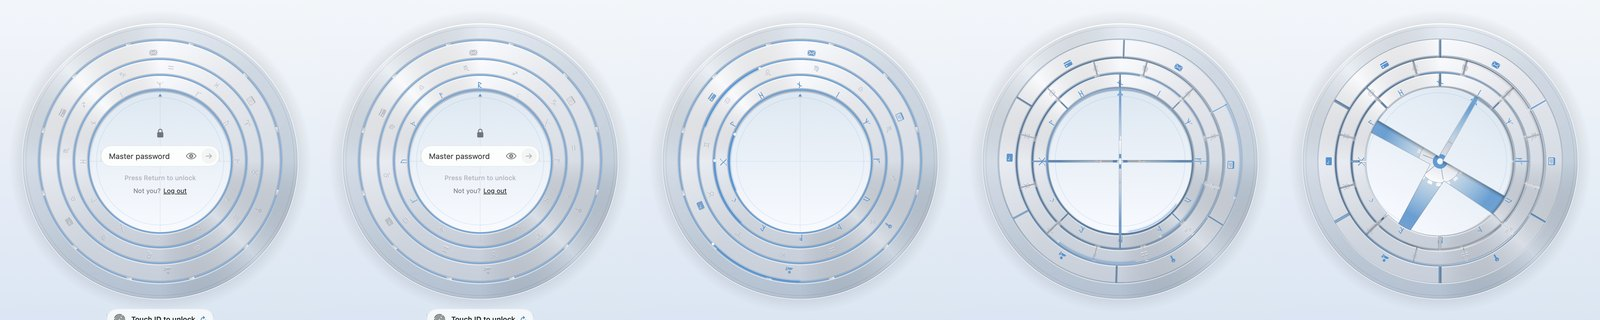
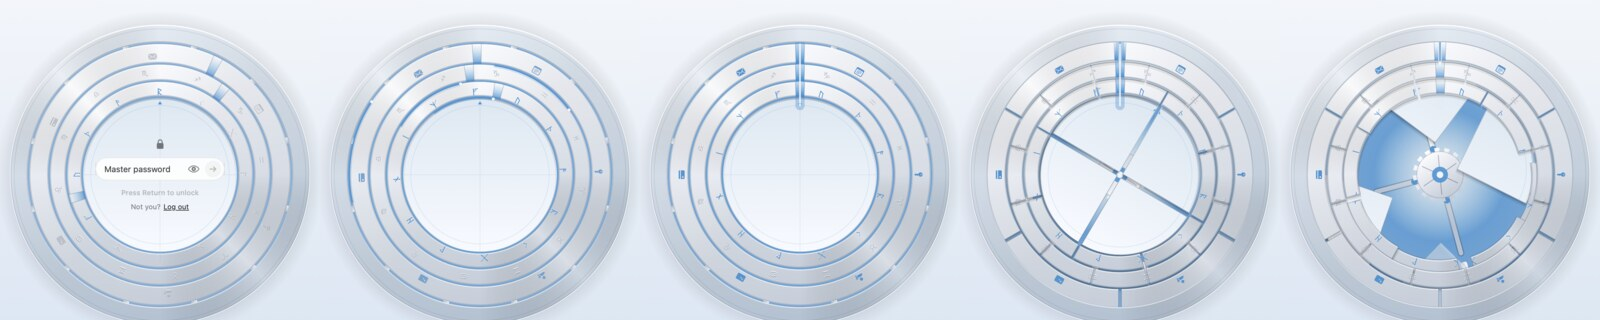
feat: the unlock lines up the three rings before the door opens
Each ring (heaven, person, earth) now has a notch. On unlock they turn,
outside in, the shorter way round until the notches meet at the top; light
runs down the keyway (歸元), and only then do the bolts draw and the door come
apart. The sequence plays in ~0.93 s, so the gate now waits 940 ms.

Changed region(s): [[0.0, 0.125, 1.0, 1.0]]

diff --git a/App/Sources/VaultDoorStage.swift b/App/Sources/VaultDoorStage.swift
@@ -107,6 +107,8 @@ private struct Mechanism {
     var twist = 0.0
     /// The geared core under the hub plates: 1 in place … 0 retracted into the light.
     var core = 1.0
+    /// 歸元: the three notches in line at the top, light running down the keyway, 0…1.
+    var keyway = 0.0
     /// An arc of energy running along the seams: its angle (degrees) and strength.
     var sweep = 0.0
     var sweepStrength = 0.0
@@ -121,8 +123,8 @@ private struct Mechanism {
     func piece(_ k: Int, _ i: Int) -> Double {
         let n = Double(Self.pieceCount[k])
         if let e = openT {
-            // Every piece has landed by ~1.02 (0.68 s at play speed), before the gate takes over with a still copy.
-            let start = [0.42, 0.5, 0.58, 0.66][k] + Double(i) / n * 0.1
+            // Every piece has landed by ~1.12 (0.93 s at play speed), before the gate takes over with a still copy.
+            let start = [0.52, 0.6, 0.68, 0.76][k] + Double(i) / n * 0.1
             return Ease.inOut(Self.seg(e, start, start + 0.28)) // soft in, soft out: no snap at either end
         }
         if let e = closeT {
@@ -134,7 +136,8 @@ private struct Mechanism {
 
     static func seg(_ e: Double, _ a: Double, _ b: Double) -> Double { min(1, max(0, (e - a) / (b - a))) }
 
-    /// Unlocking, `e` seconds of timeline in (~1.02; played 1.2x, so AppModel hands over to the gate at 0.87 s).
+    /// Unlocking, `e` seconds of timeline in (~1.12; played 1.2x, so AppModel hands over to the gate at 0.94 s).
+    /// The three rings turn until their notches line up into one keyway at the top, and only then does it open.
     static func opening(_ e: Double) -> Mechanism {
         func seg(_ a: Double, _ b: Double) -> Double { Self.seg(e, a, b) }
         var m = Mechanism()
@@ -143,16 +146,22 @@ private struct Mechanism {
         for i in 0..<12 { m.pinLight[i] = Ease.out(seg(0.012 * Double(i), 0.012 * Double(i) + 0.08)) }
         m.sweep = Ease.inOut(seg(0, 0.42)) * 540 - 90
         m.sweepStrength = sin(.pi * seg(0, 0.42))
-        // Ratchet: each ring turns to its stop with a small overshoot, staggered.
-        for k in 0..<4 { m.align[k] = Ease.backOut(seg(0.08 + 0.04 * Double(k), 0.3 + 0.04 * Double(k))) }
+        // The combination: heaven (runes), person (tumbler), earth (pins), outside in, each turning until its notch
+        // is at the top and stopping with a small overshoot, like a dial clicking home.
+        for k in 1..<4 {
+            let s = 0.02 + 0.06 * Double(3 - k)
+            m.align[k] = Ease.backOut(seg(s, s + 0.3))
+        }
+        // 歸元: the notches in line, light runs down the keyway to the hub, then gives way to the opening.
+        m.keyway = Ease.out(seg(0.4, 0.48)) * (1 - Ease.inOut(seg(0.58, 0.72)))
         // Unlatch: bolts snap back, seams crack with a jolt, the hub turns a little as one.
-        m.bolts = Ease.inOut(seg(0.26, 0.38))
-        m.latch = Ease.backOut(seg(0.34, 0.44))
-        m.twist = 30 * Ease.backOut(seg(0.36, 0.5))
+        m.bolts = Ease.inOut(seg(0.44, 0.54))
+        m.latch = Ease.backOut(seg(0.48, 0.58))
+        m.twist = 30 * Ease.backOut(seg(0.5, 0.62))
         // Transform: pieces cascade out (see `piece`); the core spins up, then retracts into the light.
         for k in 0..<4 { m.parts[k] = m.piece(k, pieceCount[k] - 1) > 0 ? m.piece(k, 0) : 0 }
-        m.core = 1 - Ease.inOut(seg(0.82, 1.02))
-        m.light = Ease.out(seg(0.05, 0.6))
+        m.core = 1 - Ease.inOut(seg(0.92, 1.12))
+        m.light = Ease.out(seg(0.05, 0.7))
         return m
     }
 
@@ -269,7 +278,7 @@ private struct VaultDoorArt: View, Animatable {
     /// The twelve pins, one Elder Futhark rune each.
     private static let runes = Array("ᚠᚢᚦᚨᚱᚲᚷᚹᚺᚾᛁᛉ")
 
-    /// How much faster than written the opening plays; AppModel waits `1.02 / openSpeed` before the gate.
+    /// How much faster than written the opening plays; AppModel waits `1.12 / openSpeed` before the gate.
     static let openSpeed = 1.2
 
     private static let runeSymbols = ["key.fill", "person.badge.key.fill", "terminal.fill",
@@ -355,7 +364,7 @@ private struct VaultDoorArt: View, Animatable {
     }
 
     // Ring angles in degrees. The tumbler drifts and turns half a notch per character; the pin ring only moves when
-    // typing, bringing the newest lit pin to the marker at the top. Unlocking turns each to its next aligned stop.
+    // typing, bringing the newest lit pin to the marker at the top. Unlocking turns each until its notch is at the top.
     private func idle(_ k: Int, at t: Double) -> Double {
         switch k {
         case 3: t * 2.2
@@ -364,16 +373,18 @@ private struct VaultDoorArt: View, Animatable {
         default: 0
         }
     }
-    private static let symmetry: [Double] = [90, 30, 30, 60]
-    private static let direction: [Double] = [1, -1, 1, 1]
+    /// Where each ring's notch is cut, on the ring itself (degrees; 0° = 3 o'clock, clockwise): between two pins,
+    /// between two signs, at a seam of the rune ring. Turned to the top, the three make one keyway.
+    private static let notch: [Double] = [0, -75, -90, -90]
 
     private func angle(_ k: Int, _ m: Mechanism) -> Double {
         guard k > 0 else { return 0 }
         guard let e = opened else { return idle(k, at: time) }
         let a0 = idle(k, at: time - e)
-        let sym = Self.symmetry[k]
-        let target = Self.direction[k] > 0 ? (floor(a0 / sym) + 1) * sym : (ceil(a0 / sym) - 1) * sym
-        return a0 + (target - a0) * m.align[k]
+        // The shorter way round to bring the notch to the top.
+        var d = (-90 - Self.notch[k] - a0).truncatingRemainder(dividingBy: 360)
+        if d > 180 { d -= 360 } else if d <= -180 { d += 360 }
+        return a0 + d * m.align[k]
     }
 
     private func draw(_ ctx: inout GraphicsContext, size: CGSize) {
@@ -424,16 +435,21 @@ private struct VaultDoorArt: View, Animatable {
         // The pieces, inside out, so each slides out under the next; the rune segments retract into the frame.
         c.clip(to: circle(1.0 * R))
         let turn = (0..<4).map { angle($0, m) }
+        // The notches show the light inside; brighter as the keyway lines up.
+        let slot = min(1, 0.45 + 0.4 * inner + 0.6 * m.keyway)
         let glyphs = Glyphs(ctx)
         pieces(c, ring: 0, m: m, p: p, count: 4, cut: 0, inner: 0, outer: DoorGeometry.core) { drawCore(&$0, p: p, glow: glow, m: m, glyphs: glyphs) }
         pieces(c, ring: 1, m: m, p: p, count: 8, cut: 0, inner: DoorGeometry.pins.inner, outer: DoorGeometry.pins.outer) {
             drawPins(&$0, p: p, m: m, glyphs: glyphs, turn: turn[1])
+            drawNotch(&$0, ring: 1, inner: DoorGeometry.pins.inner, outer: DoorGeometry.pins.outer, p: p, glow: glow, light: slot)
         }
         pieces(c, ring: 2, m: m, p: p, count: 12, cut: 15, inner: DoorGeometry.tumbler.inner, outer: DoorGeometry.tumbler.outer) {
             drawTumbler(&$0, p: p, glyphs: glyphs, inner: inner, turn: turn[2])
+            drawNotch(&$0, ring: 2, inner: DoorGeometry.tumbler.inner, outer: DoorGeometry.tumbler.outer, p: p, glow: glow, light: slot)
         }
         pieces(c, ring: 3, m: m, p: p, count: 6, cut: 30, inner: DoorGeometry.runes.inner, outer: DoorGeometry.runes.outer) {
             drawRunes(&$0, p: p, m: m, glyphs: glyphs, turn: turn[3])
+            drawNotch(&$0, ring: 3, inner: DoorGeometry.runes.inner, outer: DoorGeometry.runes.outer, p: p, glow: glow, light: slot)
         }
 
         // Seams glow onto the steel around them (while the door is whole).
@@ -445,6 +461,17 @@ private struct VaultDoorArt: View, Animatable {
             for f in [0.9925, 0.8375, 0.7075, DoorGeometry.core + 0.0075] {
                 l.stroke(circle(R * f), with: .color(glow(a * (dark ? 0.35 : 0.4))), lineWidth: 1)
             }
+        }
+
+        // 歸元: light runs down the lined-up notches, from the rim to the hub's marker.
+        if m.keyway > 0.01 {
+            var k = c
+            if dark { k.blendMode = .plusLighter }
+            var beam = Path()
+            beam.move(to: CGPoint(x: 0, y: -R * DoorGeometry.runes.outer))
+            beam.addLine(to: CGPoint(x: 0, y: -R * DoorGeometry.core * 0.9))
+            k.stroke(beam, with: .color(glow(0.35 * m.keyway)), style: StrokeStyle(lineWidth: R * 0.07, lineCap: .round))
+            k.stroke(beam, with: .color(.white.opacity(0.85 * m.keyway)), style: StrokeStyle(lineWidth: R * 0.012, lineCap: .round))
         }
 
         // Energy running along the seams (power-up when opening, power-down when closing).
@@ -744,6 +771,22 @@ private struct VaultDoorArt: View, Animatable {
         d.stroke(circle(rd * 0.16), with: .color(p.edge), lineWidth: 1)
         d.fill(circle(rd * 0.06), with: .color(glow(0.9)))
         d.fill(circle(rd * 0.025), with: .color(.white.opacity(0.9)))
+    }
+
+    /// Ring `k`'s notch: a slot cut through the band where the light inside shows, with machined faces.
+    /// Drawn in the ring's own (turned) coordinates.
+    private func drawNotch(_ r: inout GraphicsContext, ring k: Int, inner: CGFloat, outer: CGFloat, p: DoorPalette,
+                           glow: RGB, light: Double) {
+        let R = radius
+        let mid = R * (inner + outer) / 2
+        let half = asin(R * 0.032 / mid) * 180 / .pi
+        let a = Self.notch[k]
+        let slot = sector(R * inner - 1, R * outer + 1, a - half, a + half)
+        let rad = a * .pi / 180
+        r.fill(slot, with: .linearGradient(Gradient(colors: [Color.white.opacity(0.55 * light), glow(light)]),
+                                           startPoint: CGPoint(x: cos(rad) * R * outer, y: sin(rad) * R * outer),
+                                           endPoint: CGPoint(x: cos(rad) * R * inner, y: sin(rad) * R * inner)))
+        r.stroke(slot, with: .color(p.edge), lineWidth: 1)
     }
 
     // MARK: Helpers

diff --git a/App/Sources/Snapshot.swift b/App/Sources/Snapshot.swift
@@ -59,14 +59,15 @@ enum Snapshot {
             ("1-typing", .init(time: 12, opened: nil, typed: 5)),
             ("2-busy", .init(time: 12.2, opened: nil, typed: 9, busy: true)),
             ("3-wrong", .init(time: 12, opened: nil, alert: 0.9)),
-            ("o1-power", .init(time: 12.1, opened: 0.18, typed: 9)),
-            ("o2-ratchet", .init(time: 12.3, opened: 0.3, typed: 9)),
-            ("o3-unlatch", .init(time: 12.4, opened: 0.44, typed: 9)),
-            ("o4-hub", .init(time: 12.55, opened: 0.6, typed: 9)),
-            ("o5-pins", .init(time: 12.7, opened: 0.72, typed: 9)),
-            ("o6-louvres", .init(time: 12.8, opened: 0.84, typed: 9)),
-            ("o7-runes", .init(time: 12.9, opened: 0.94, typed: 9)),
-            ("o8-core", .init(time: 13, opened: 1.04, typed: 9)),
+            ("o1-power", .init(time: 12.1, opened: 0.12, typed: 9)),
+            ("o2-heaven", .init(time: 12.2, opened: 0.2, typed: 9)),
+            ("o3-person", .init(time: 12.3, opened: 0.27, typed: 9)),
+            ("o4-keyway", .init(time: 12.4, opened: 0.4, typed: 9)),
+            ("o5-unlatch", .init(time: 12.5, opened: 0.46, typed: 9)),
+            ("o6-hub", .init(time: 12.6, opened: 0.58, typed: 9)),
+            ("o7-pins", .init(time: 12.7, opened: 0.7, typed: 9)),
+            ("o8-louvres", .init(time: 12.8, opened: 0.8, typed: 9)),
+            ("o9-core", .init(time: 13, opened: 0.92, typed: 9)),
             ("c1-runes-in", .init(time: 12.2, opened: nil, closed: 0.2)),
             ("c2-hub-in", .init(time: 12.5, opened: nil, closed: 0.6)),
             ("c3-sealed", .init(time: 12.8, opened: nil, closed: 1.1)),

diff --git a/App/Sources/AppModel.swift b/App/Sources/AppModel.swift
@@ -875,7 +875,7 @@ final class AppModel {
         Task {
             // The door transforms open (~0.85 s, VaultDoorStage): pins light in turn and energy runs the seams, the rings
             // ratchet to their stops, the bolts snap back, then the pieces cascade out inside-out over the core.
-            try? await Task.sleep(for: .milliseconds(870)) // the door's last piece lands at 1.02 / 1.2 s
+            try? await Task.sleep(for: .milliseconds(940)) // the door's last piece lands at 1.12 / 1.2 s
             if fromLock {
                 // Then the gate: plates that look exactly like the lock screen go on top, the lock screen leaves
                 // under them, and the plates part over the vault (GatePlates).

diff --git a/README.md b/README.md
@@ -78,10 +78,11 @@
 </table>
 
 The lock is a vault door over the vault. You type the master password at its hub; each character lights one of the
-pins' runes and turns the rings (the tumbler carries the twelve signs of the zodiac). On unlock the door takes itself
-apart, then the screen parts like a vault's inner gate:
+pins' runes and turns the rings (the tumbler carries the twelve signs of the zodiac). Each of the three rings has a
+notch. On unlock they turn, outside in, until the notches line up into one keyway and light runs down it to the hub;
+only then does the door take itself apart, and the screen parts like a vault's inner gate:
 
-<p align="center"><img src="docs/images/door-sequence.jpg" width="820" alt="The vault door: at rest, typing, powering up, the rings ratcheting, the hub unlatching"></p>
+<p align="center"><img src="docs/images/door-sequence.jpg" width="820" alt="The vault door: typing, the rings turning, the notches lined up into a keyway, unlatching, coming apart"></p>
 <p align="center"><img src="docs/images/gate.jpg" width="820" alt="The lock screen in light and dark"></p>
 
 ## Install
